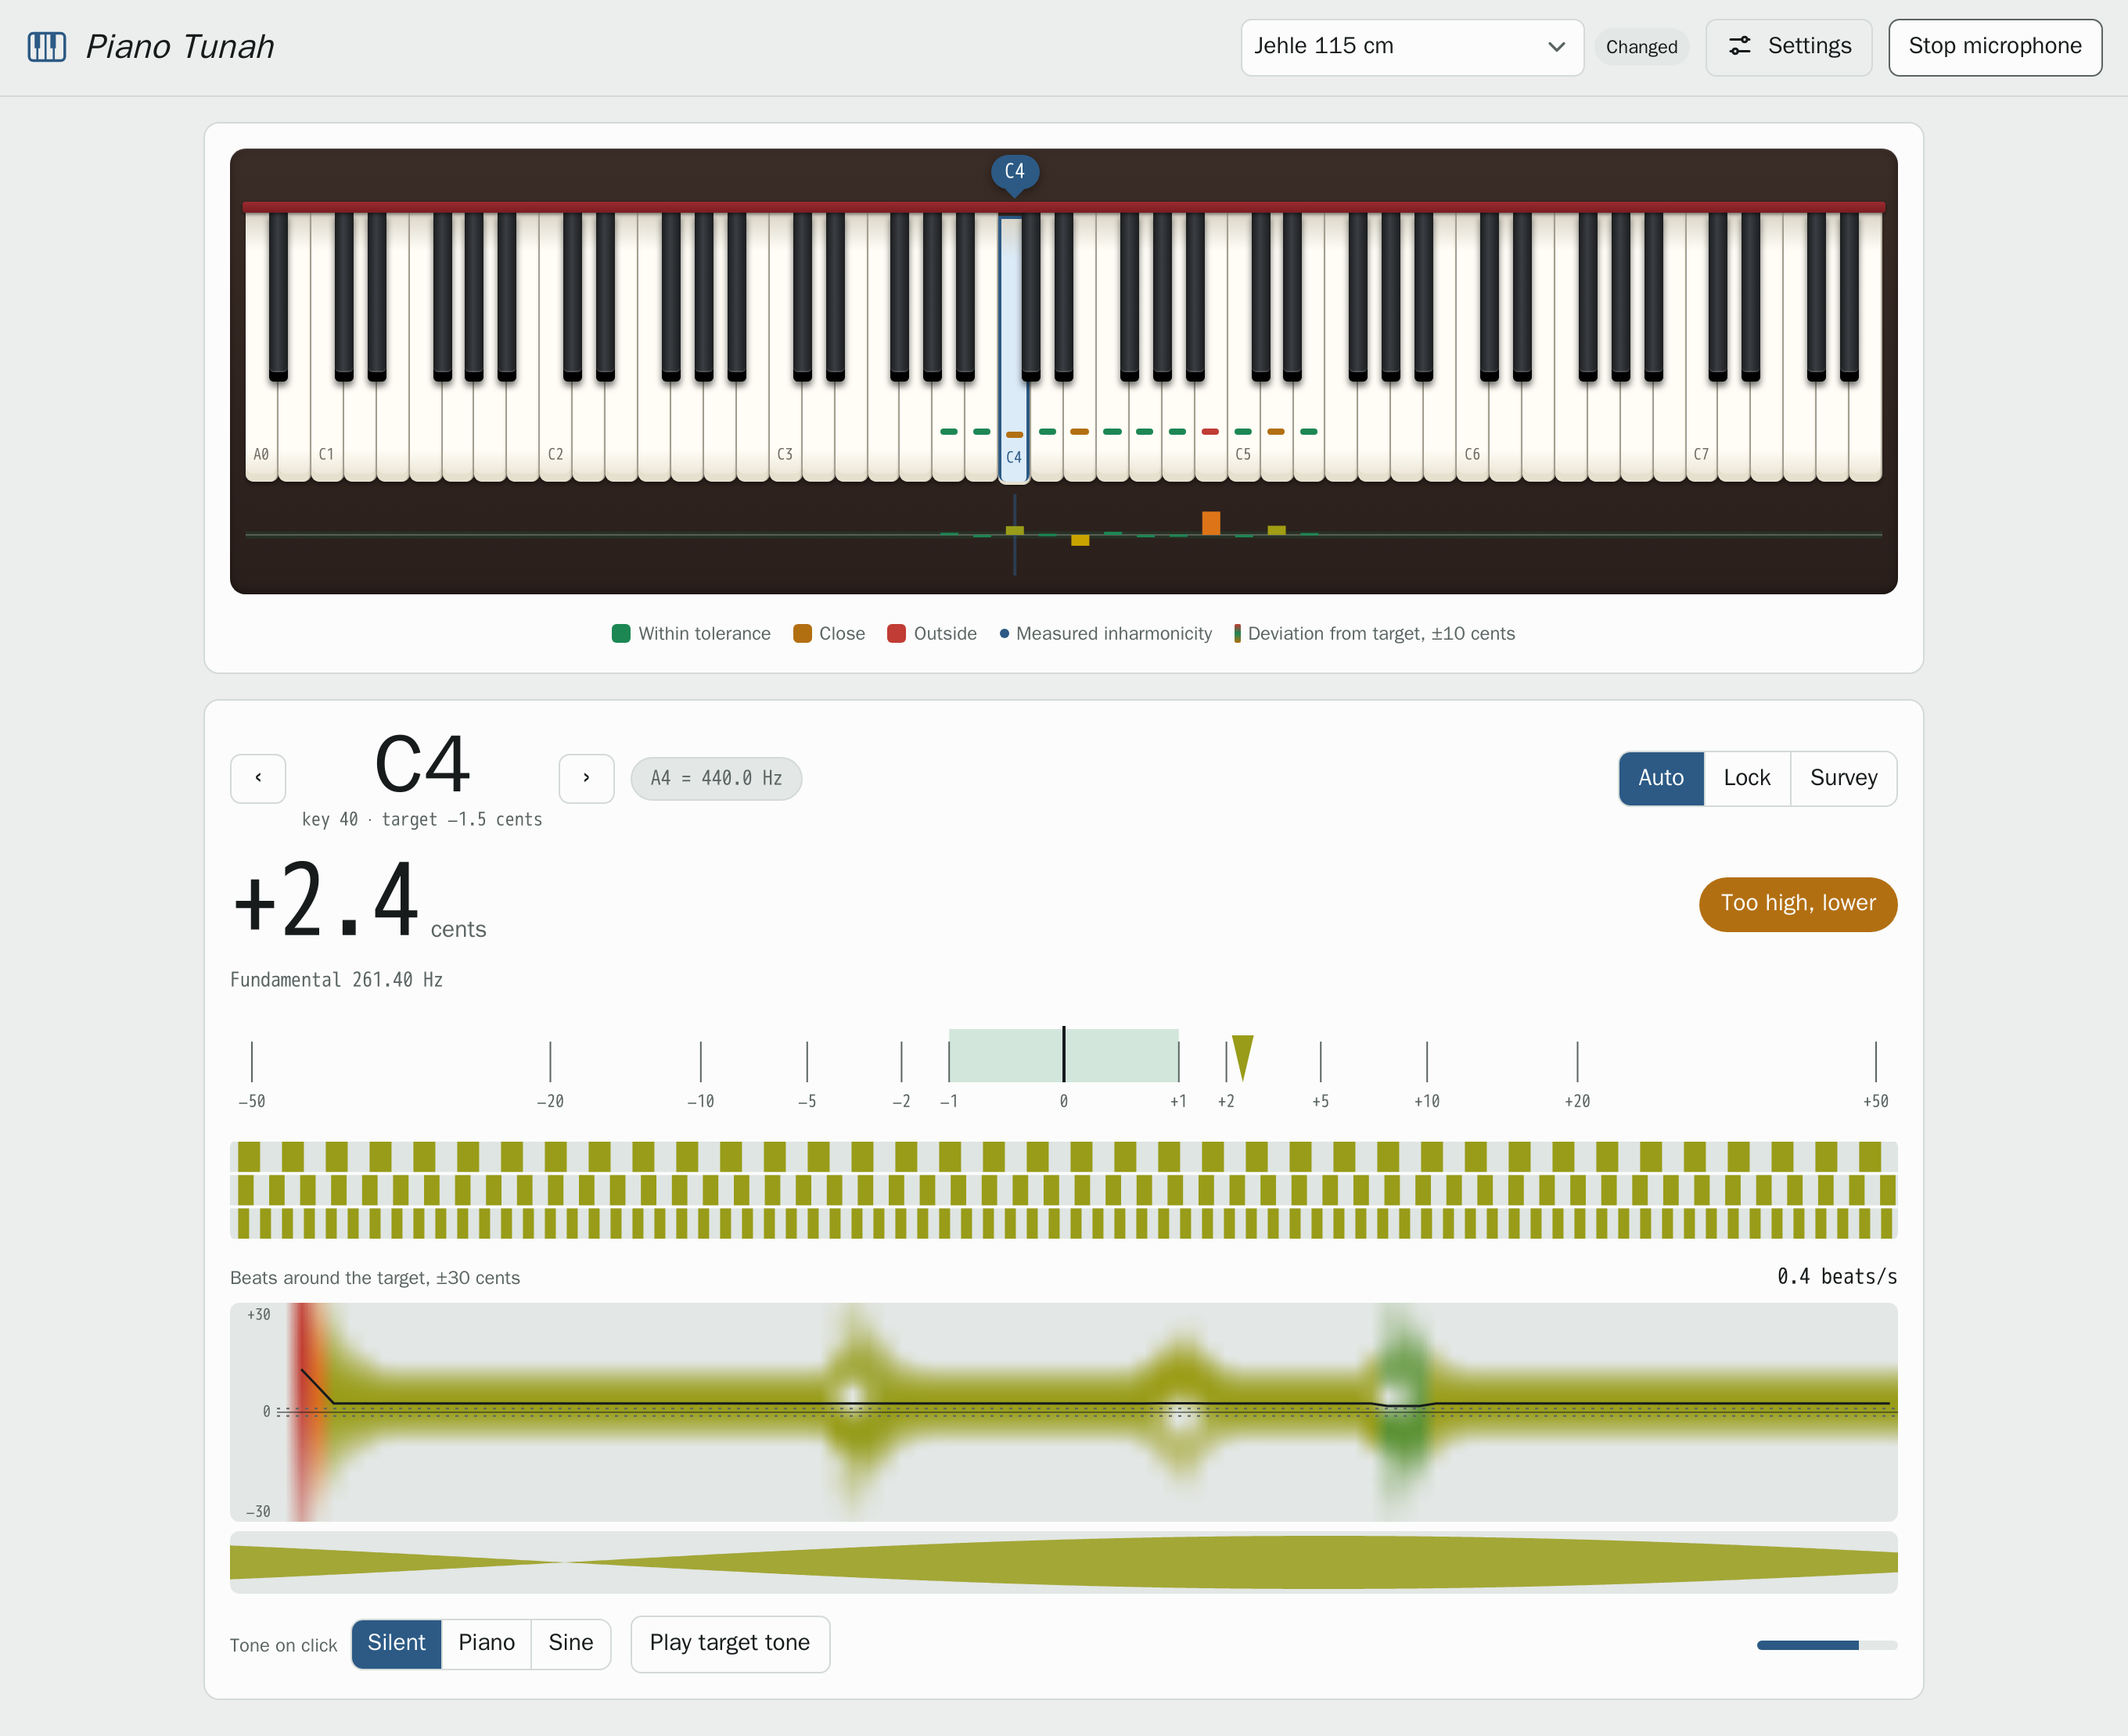
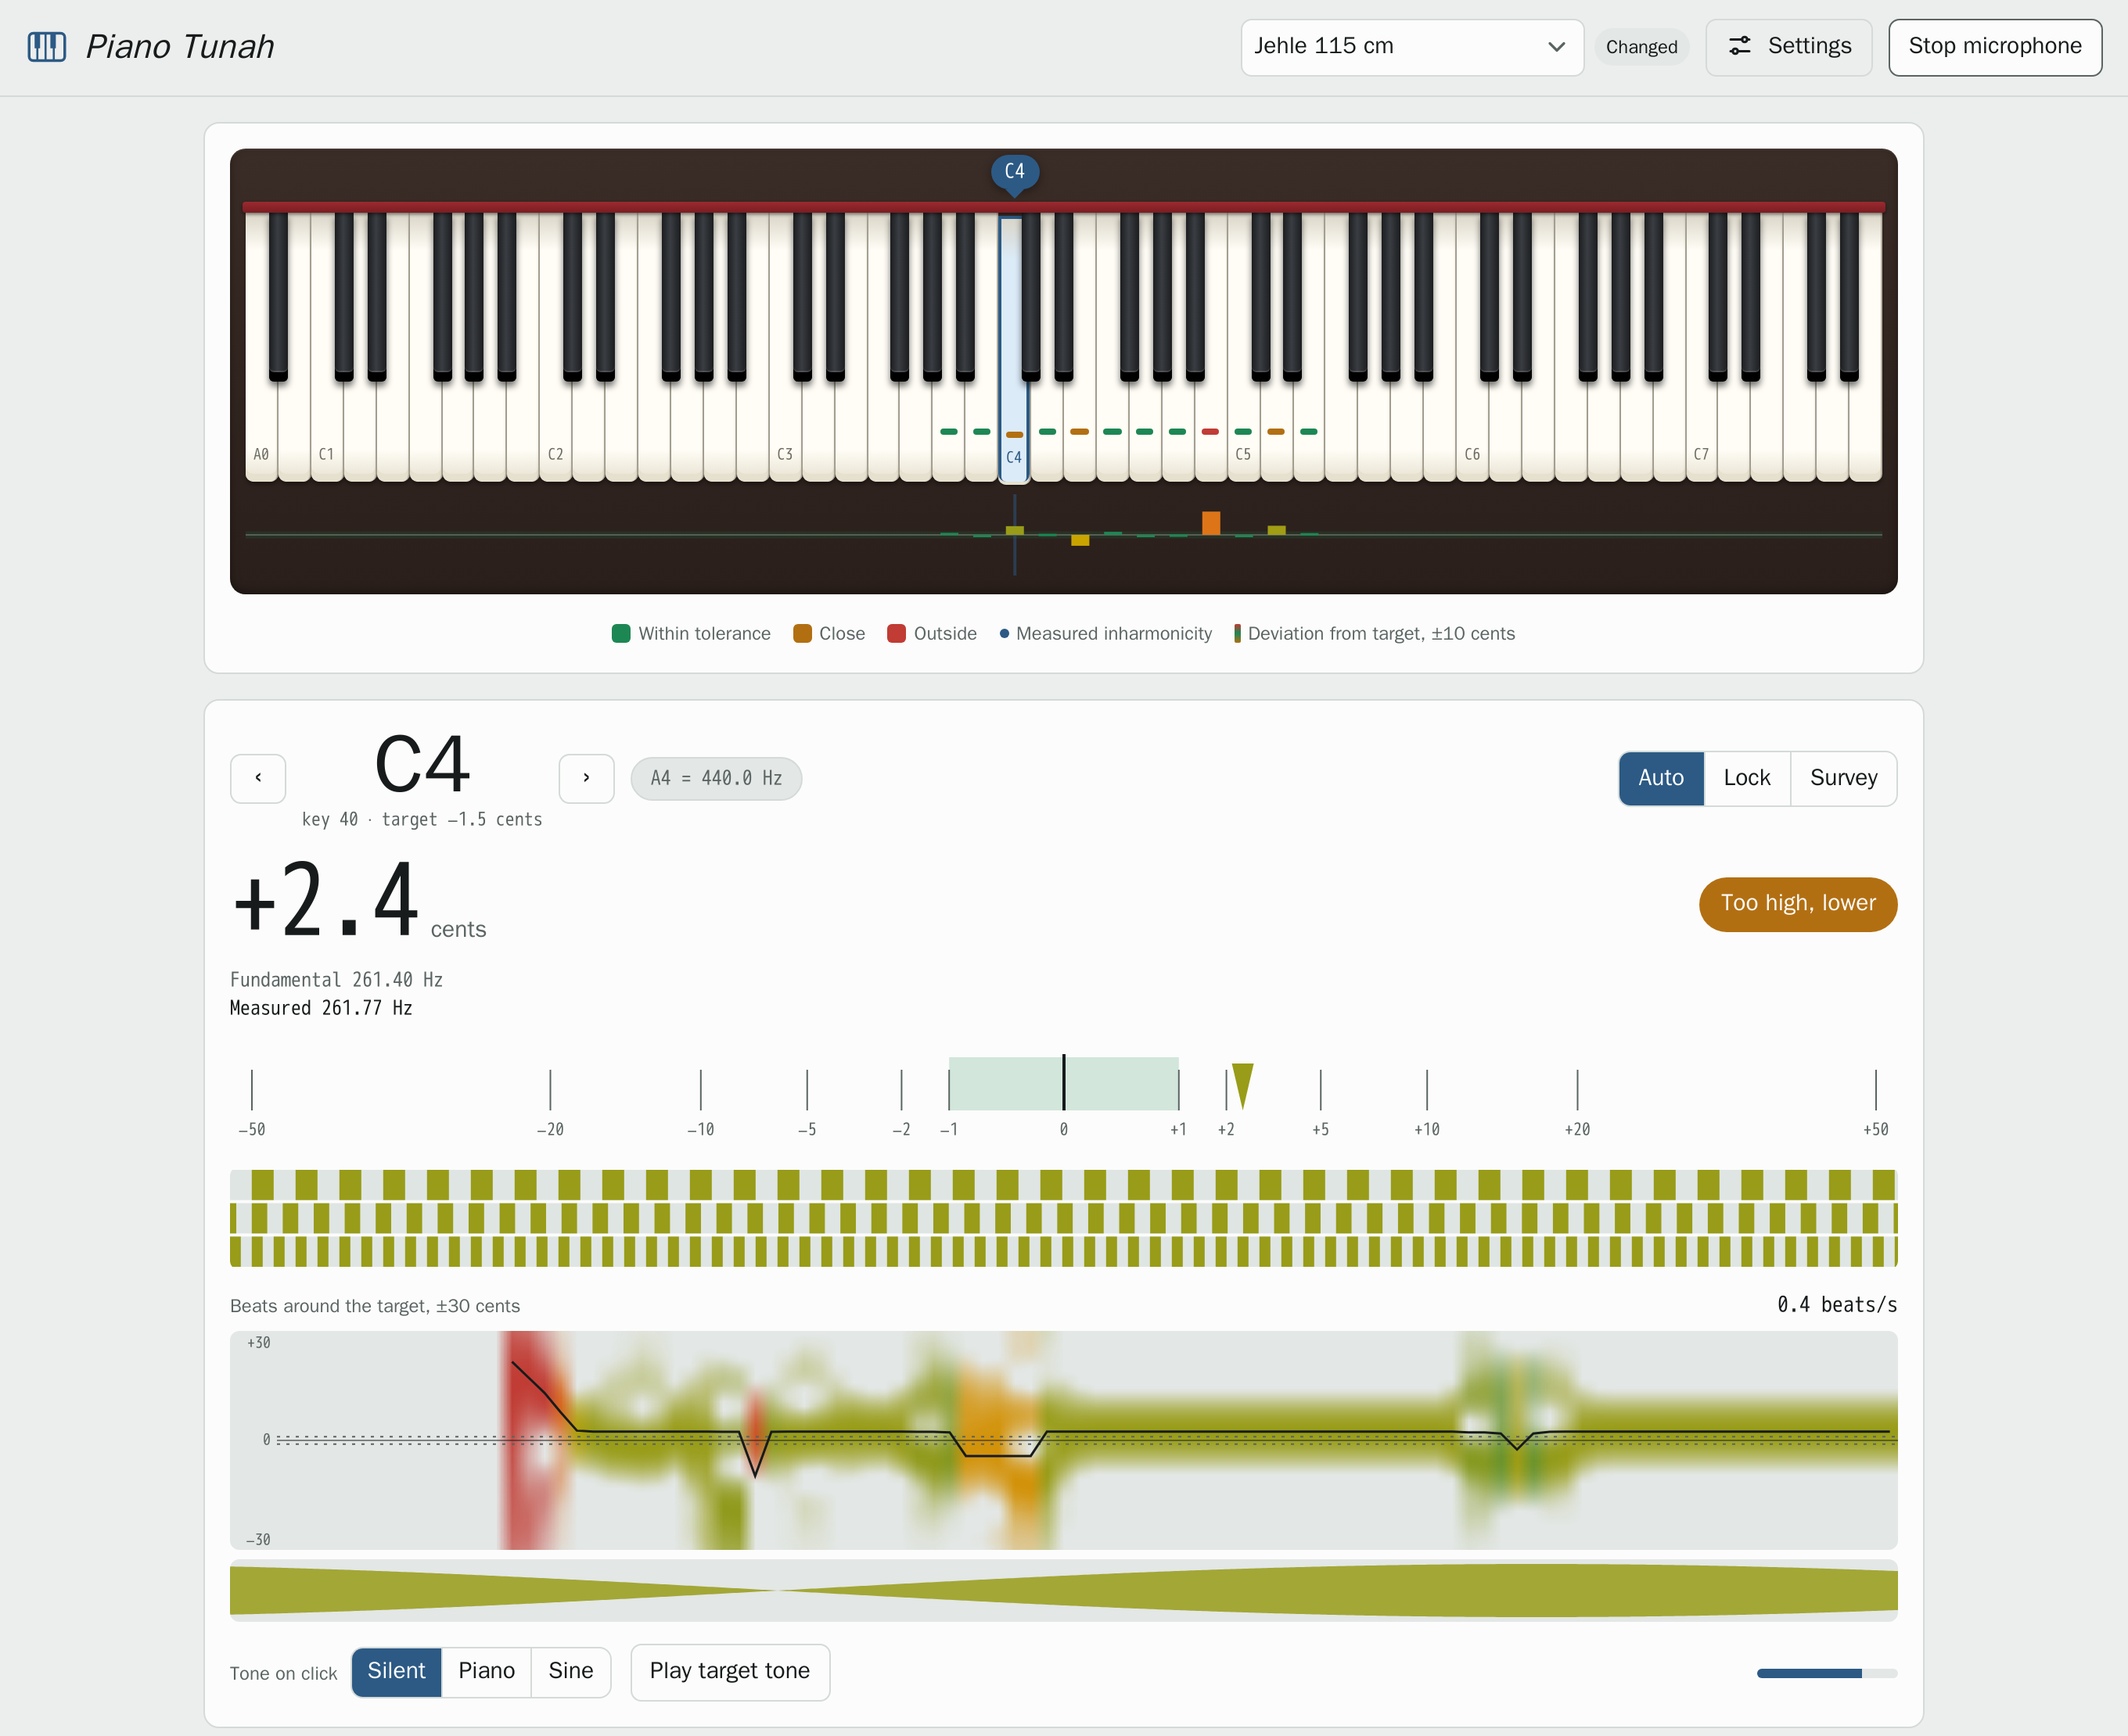
Show the measured frequency in Hz
A line under the target shows the measured frequency of the partial
being measured, from the same readings as the cents. Makes it easy to
compare with an instrument's own pitch setting. The end-to-end test
checks it, and the screenshots are retaken.

Changed region(s): [[0.0938, 0.5905, 0.9062, 0.9946]]

diff --git a/web/js/app.js b/web/js/app.js
@@ -40,6 +40,7 @@ const state = {
   signal: false,
   readings: [], // latest readings for the current key: { c, hz }
   display: NaN, // deviation from the (possibly overpulled) target
+  measHz: NaN, // measured frequency of the partial, the same readings as display
   stable: false,
   spec: [], // spectrogram columns, see drawSpectro
   frameCol: null,
@@ -498,7 +499,7 @@ function chartHover(e) {
 // Key and mode
 
 function resetReadings() {
-  Object.assign(state, { readings: [], spec: [], beatHz: NaN, display: NaN, stable: false, partialDevs: [], bReadings: [], autoFrames: 0 });
+  Object.assign(state, { readings: [], spec: [], beatHz: NaN, display: NaN, measHz: NaN, stable: false, partialDevs: [], bReadings: [], autoFrames: 0 });
 }
 
 function selectKey(k, manual = true) {
@@ -632,6 +633,7 @@ function measureCurrent(A) {
 
   const g = goal(k);
   state.display = median(cs) - g;
+  state.measHz = median(last.map((r) => r.hz));
   const center = target * 2 ** (g / 1200); // the beat view is centred on the target including overpull
   state.beatHz = center * (2 ** (state.display / 1200) - 1);
   state.frameCol = { col: A.zoom(center, SPEC_CENTS, SPEC_BINS), c: state.display };
@@ -855,6 +857,10 @@ function updateReadout() {
   pill.textContent = text;
   $('cents-num').textContent = mic.running ? fmtC(state.display) : '–';
   $('cents').dataset.live = state.signal ? '1' : '0';
+  const n = partialOf(state.key);
+  const hz = mic.running && Number.isFinite(state.measHz) ? fmtHz(state.measHz) : '–';
+  $('measured').textContent = tr(n > 1 ? 'measured.partial' : 'measured', { n, hz });
+  $('measured').dataset.live = state.signal ? '1' : '0';
   $('level-bar').style.width = `${Math.max(0, Math.min(100, (state.level + 80) * 1.4))}%`;
   renderPartials();
 }

diff --git a/web/style.css b/web/style.css
@@ -261,6 +261,8 @@ select:disabled { opacity: 0.55; }
 .status-pill[data-s="warn"] { background: var(--warn); color: var(--surface); }
 .status-pill[data-s="bad"] { background: var(--bad); color: var(--surface); }
 .targetline { font: 13px var(--f-mono); color: var(--muted); font-variant-numeric: tabular-nums; margin-top: -6px; }
+.targetline.measured { color: var(--ink); margin-top: -14px; }
+.targetline.measured[data-live="0"] { color: var(--muted); }
 
 .meter, .strobe, .spectro, .beatstrip, .chart { display: block; width: 100%; }
 .strobe, .spectro, .beatstrip { border-radius: 6px; }

diff --git a/web/index.html b/web/index.html
@@ -91,6 +91,7 @@
       <div class="status-pill" id="status-pill" data-s="idle"></div>
     </div>
     <div class="targetline" id="targetline"></div>
+    <div class="targetline measured" id="measured"></div>
 
     <canvas id="meter" class="meter" height="64" aria-hidden="true"></canvas>
     <canvas id="strobe" class="strobe" height="66" aria-hidden="true"></canvas>

diff --git a/web/js/lang/en.js b/web/js/lang/en.js
@@ -37,6 +37,8 @@ export default {
   'key.sub': 'key {k} · target {c} cents',
   'key.label': '{name}, {dev}',
   'key.unmeasured': 'not measured',
+  measured: 'Measured {hz}',
+  'measured.partial': 'Measured partial {n}: {hz}',
   'target.fund': 'Fundamental {hz}',
   'target.partial': ' · partial {n} {hz}',
   'target.overpull': ' · overpull {c} cents',

diff --git a/web/js/lang/sv.js b/web/js/lang/sv.js
@@ -37,6 +37,8 @@ export default {
   'key.sub': 'tangent {k} · mål {c} cent',
   'key.label': '{name}, {dev}',
   'key.unmeasured': 'ej mätt',
+  measured: 'Uppmätt {hz}',
+  'measured.partial': 'Uppmätt delton {n}: {hz}',
   'target.fund': 'Grundton {hz}',
   'target.partial': ' · delton {n} {hz}',
   'target.overpull': ' · överdrag {c} cent',
